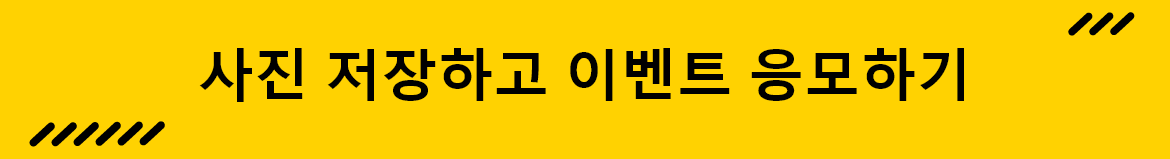
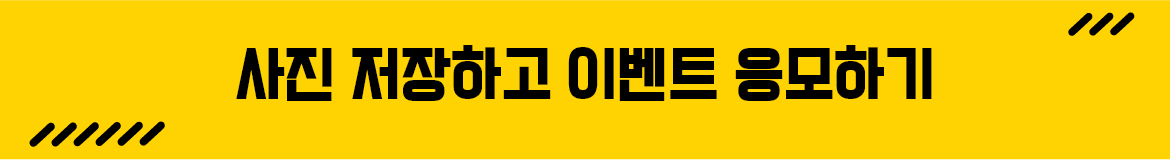
수정

diff --git a/mo.html b/mo.html
@@ -27,6 +27,38 @@ $(window).resize(function() {
 
 $(document).ready(function(){
 
+	if (isMobileIphone()) {
+		//모바일대응뷰포트강제설정
+		var mobile = document.createElement('meta');
+		mobile.name = 'viewport';
+		mobile.content = "width=device-width, initial-scale=1, shrink-to-fit=no, user-scalable=no, minimal-ui";
+		document.getElementsByTagName('head')[0].appendChild(mobile);
+
+		//노토산스폰트강제설정
+		var fonts = document.createElement('link');
+		fonts.href = 'https://fonts.googleapis.com/css2?family=Noto+Sans+KR:wght@100;300;400;500;700;900&display=swap';
+		document.getElementsByTagName('head')[0].appendChild(fonts);
+		document.body.innerHTML = 
+			"<style>body{margin:0; padding:0; font-family: 'Noto Sans KR', sans-serif; overflow:hidden; height:100%;}</style>" +
+			"<div class='inner' style='padding:15.0427vw 7.2650vw 57.2650vw; text-align:center;'>"
+				"<img src='./images/icon/ico_exclamation mark.svg' alt='' style='width:21.3675vw;'>" +
+				"<h2 style='padding-top:8.5470vw; padding-bottom:3.4188vw; margin:0; font-size:6.1538vw; font-weight:bold; text-align:center; font-family:Noto Sans KR, sans-serif;'>인앱브라우저 호환문제로 인해<br />Safari로 접속해야합니다.</h2>" +
+				"<article style='text-align:center; font-size:4.1026vw; word-break:keep-all;color:#999;'>아래 버튼을 눌러 Safari를 실행해주세요<br />Safari가 열리면, 주소창을 길게 터치한 뒤,<br />'붙여놓기 및 이동'을 누르면<br />정상적으로 이용할 수 있습니다.<br /><br />" +
+				"<button id='bClipboard' data-clipboard-text='http://106.10.43.161/mbti' onclick='inappbrowserout();' style='width:59.8291vw; margin-top:8.5470vw; height:13.6752vw; font-size:3.9316vw; font-weight:700; background-color:#000;color:#fff;border-radius:6.8376vw;font-size:17px;border:0;'>Safari로 열기</button>" +
+				"</article>";
+			"</div>"
+	}
+
+	var s = document.createElement("script");
+
+	if (/iPhone|iPad|iPod/i.test(navigator.userAgent)) {
+		s.src = "https://cdnjs.cloudflare.com/ajax/libs/html2canvas/0.5.0-alpha1/html2canvas.min.js";
+	} else {
+		s.src = "https://cdnjs.cloudflare.com/ajax/libs/html2canvas/1.4.1/html2canvas.min.js";
+	}
+
+	$("head").append(s);
+
 	var zoneH = $('.adorn_zone').width();
 	zoneH = zoneH * 5 / 4;
 	$('.adorn_zone').height(zoneH);
@@ -347,6 +379,18 @@ function adornComplete() {
 
 } // adornComplete()
 
+function isMobileIphone() {
+	if (navigator.userAgent.match(/inapp|NAVER|KAKAOTALK|Snapchat|Line|WirtschaftsWoche|Thunderbird|Instagram|everytimeApp|WhatsApp|Electron|wadiz|AliApp|zumapp|iPhone(.*)Whale|Android(.*)Whale|kakaostory|band|twitter|DaumApps|DaumDevice\/mobile|FB_IAB|FB4A|FBAN|FBIOS|FBSS|SamsungBrowser\/[^1]/i)) {
+		if (navigator.userAgent.match(/iPhone|iPad/i)) {
+			return true;
+		} else {
+			return false;
+		}
+	} else {
+		return false;
+	}
+}
+
 
 </script>
 <!-- <script src="https://cdnjs.cloudflare.com/ajax/libs/dom-to-image/2.6.0/dom-to-image.min.js"></script>
@@ -366,31 +410,29 @@ function adornComplete() {
 					<img src="./images/icon/star_ico.png" alt="">
 				</div>
 
-				<!-- 2022.10.11 수정 -->
+				<!-- 2022.10.12 수정 -->
 				<ul>
 					<li>
-						<em>STEP1</em>
+						<em class="step">STEP1</em>
 						<span>
-							내가 원하는 <em>기본 배경</em> or <em>갤러리</em>에서 사진 선택(4:5비율)
-						</span>
-					</li>
-					<li>
-						<em>STEP2</em>
-						<span>
-							내 마음에 드는 스티커 & 텍스트 추가해서 배경꾸미기
-						</span>
-					</li>
-					<li>
-						<em>STEP3</em>
-						<span>
-							인스타그램에 태그 작성해서 올리면 이벤트 참여 끝!
+							내가 원하는 <em class="acc">기본 배경</em> or <em class="acc">갤러리</em>에서 사진 선택(4:5비율)<br>
+							<span class="ref">인스타그램 게시물 비율(4:5)에 최적화되어 있습니다.</span>
 						</span> 
 					</li>
+					<li>
+						<em class="step">STEP2</em>
+						<span>내 마음에 드는 <em class="acc">스티커</em> & <em class="acc">텍스트</em> 추가해서 배경꾸미기</span>
+					</li>
+					<li>
+						<em class="step">STEP3</em>
+						<span><em class="acc">인스타그램</em>에 태그 작성해서 올리면 <em class="acc">이벤트 참여</em> 끝!</span> 
+					</li>
 				</ul>
-				<!-- // 2022.10.11 수정 -->
-				<p>
+				<!-- // 2022.10.12 수정 -->
+
+				<!-- <p> 2022.10.12 제거
 					모든 저작물은 초상권, 지적재산권, 저작권 등의 법리적 문제가 전혀 없어야 하며 문제가 있을 시 수상에서 제외될 수 있습니다
-				</p>
+				</p> -->
 
 				<!-- 2022.10.05 레이어팝업 추가 -->
 				<div class="alert" id="alert01">
@@ -609,7 +651,7 @@ function adornComplete() {
 
 		<div class="adorn_hashtag">
 			<ul>
-				<li>필수해시태그</li>
+				<li class="acc01">필수해시태그</li>
 				<li>#유플러스</li>
 				<li>#아이폰14</li>
 				<li>#MBT_i</li>
@@ -633,7 +675,8 @@ function adornComplete() {
 	<div class="layer_pop">
 		<div class="layer_pop_inner">
 			<div><img src="./images/icon/ico_complete.svg" alt="체크표시"></div>
-			이미지가 저장되고 해시태그가<br>복사되었습니다. 인스타그램에 게재하여야<br>이벤트에 응모됩니다.
+			이미지가 저장되고 해시태그가<br>복사되었습니다. 인스타그램에 게재하여야<br>이벤트에 응모됩니다.<br>
+			(IOS는 파일 앱에 저장됩니다.)
 		</div>
 		<button id="hashtagbtn">확인</button>
 	</div>

diff --git a/css/style_mo.css b/css/style_mo.css
@@ -17,14 +17,17 @@
 .adorn_zone {position:relative; overflow:hidden;}
 .adorn_zone .adorn_bg {position:absolute; top:0; left:0; width:100%; height:100%; background:no-repeat center / cover;}
 
-.adorn_info {position:absolute; top:0; left:0; width:100%; height:100%; padding:12.8205vw 12.8205vw 6.4102vw; box-sizing:border-box; color:#fff; text-align:center; word-break:keep-all;}
+.adorn_info {position:absolute; top:0; left:0; width:100%; height:100%; padding:17.9487vw 5.8974vw 39.1453vw 13.5897vw; box-sizing:border-box; color:#fff; text-align:center; word-break:keep-all;}
 .adorn_info .img {margin-bottom:2.735vw; text-align:center;}
 .adorn_info .img img {width:15.641vw; max-width:100%;}
 .adorn_info ul {font-weight:bold;}
-.adorn_info ul li {display:flex; align-items:center; font-size:4.7863vw; line-height:6.8376vw; text-align:left;}
+.adorn_info ul li {display:flex; font-size:4.7863vw; line-height:6.8376vw; text-align:left;}
 .adorn_info ul li ~ li {margin-top:2.5641vw;}
 .adorn_info ul li span {padding-left:2.5641vw;}
-.adorn_info ul li em {width:17.094vw; height:6.8376vw; padding:0.8547vw 3.1623vw; font-size:3.7606vw; color:#fff; font-weight:bold; background-color:#0F6FA7; border-radius:6.8376vw; font-style:normal; text-align:center;}
+.adorn_info ul li .step {width:17.094vw; height:6.8376vw; padding:0.8547vw 3.1623vw; font-size:3.7606vw; color:#fff; font-weight:bold; background-color:#0F6FA7; border-radius:6.8376vw; font-style:normal; text-align:center;}
+.adorn_info ul li .acc {display:inline-block; position:relative; padding:0 3px; font-style:normal; z-index:10;}
+.adorn_info ul li .acc:before {content:""; display:block; position:absolute; top:50%; left:0; width:100%; height:3.4188vw; background-color:#3AADEF; z-index:-1;}
+.adorn_info ul li .ref {padding-left:0; font-size:3.5897vw; font-weight:normal; opacity:0.7;}
 .adorn_info p {margin-top:6.5811vw; font-size:3.589vw; opacity:0.7;}
 .adorn_info.active {display:none;}
 
@@ -65,12 +68,13 @@
 
 /* *** adorn_item *** */
 
-.adorn_item_btn {padding:20px 47px 7px;}
+.adorn_item_btn {padding:3.4188vw 11.9658vw 7px;}
 .adorn_item_btn ul {display:flex;}
 .adorn_item_btn li {width:calc((100% - 60px) / 4);}
 .adorn_item_btn li ~ li {margin-left:20px;}
 .adorn_item_btn button {display:block; padding:0; border:0; background-color:transparent;}
 .adorn_item_btn button img {display:block; width:100%;}
+.adorn_item_btn button span {font-size:3.7607vw; font-weight:bold;}
 
 
 
@@ -108,7 +112,7 @@
 /* text */
 .adorn_tex_area .tex_area {position:relative; display:flex; align-items:flex-start; max-width:100%; min-height:175px; padding:25px 20px 63px; margin:83px 20px 0; border-radius:7px; box-sizing:border-box; background-color:#fff;}
 .adorn_tex_area textarea {display:block; flex:1; width:100%; height:78px; padding:0; margin:0; border:0; box-sizing:border-box; font-size:18px; overflow:hidden; overflow-y:auto; resize:none; outline:none;}
-.adorn_tex_area button {position:absolute; bottom:20px; right:20px; width:74px; height:43px; padding:0; border:none; background-color:#000; color:#fff; font-weight:bold; border-radius:7px;}
+.adorn_tex_area button {position:absolute; bottom:20px; right:20px; width:74px; height:43px; font-size:18px; line-height:43px; padding:0; border:none; background-color:#000; color:#fff; font-weight:bold; border-radius:7px;}
 
 /* text_opt */
 .adorn_tex_opt.adorn_pop {top:auto; transform:translateY(100%); transition:transform 0.3s; padding:56px 28px 33px; border-radius:20px 20px 0 0; background-color:#fff; box-shadow:0 0 10px rgba(0, 0, 0, 0.3); text-align:center;}
@@ -158,7 +162,9 @@
 /* hashtag */
 .adorn_hashtag {padding:0 20px; text-align:center;}
 .adorn_hashtag strong {display:none;}
-.adorn_hashtag li {display:inline-block; font-size:4vw;}
+.adorn_hashtag li {display:inline-block; font-size:3.2479vw; color:#666;}
+.adorn_hashtag .acc01 {position:relative; font-size:3.2479vw; color:#000; font-weight:bold; z-index:1;}
+.adorn_hashtag .acc01:after {content:""; display:block; position:absolute; top:50%; left:0; width:100%; height:2.5641vw; background-color:#FFD201; z-index:-1;}
 .adorn_hashtag i {display:none;}
 
 /* complete btn */

diff --git a/pc.html b/pc.html
@@ -294,7 +294,6 @@ function adornComplete() {
 				<li>
 					<em class="step">STEP1</em>
 					<span>내가 원하는 <em class="acc">기본 배경</em> or <em class="acc">PC</em>에서 사진 불러오기(4:5비율)
-
 						<span class="ref">* 꾸미기 배경 이미지는 4:5 비율로 최적화 되어 있습니다.</span>
 					</span> 
 				</li>
